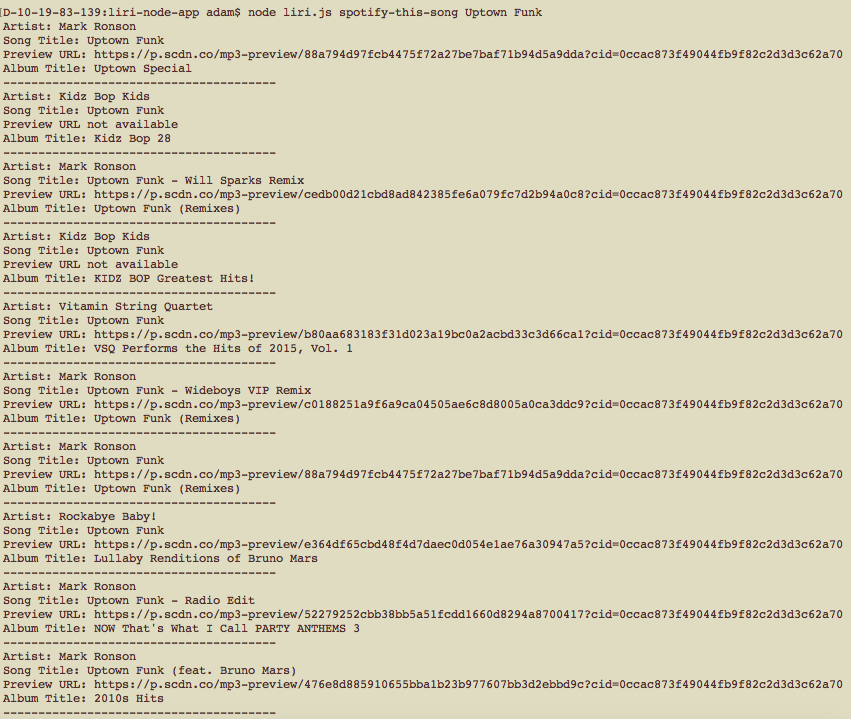
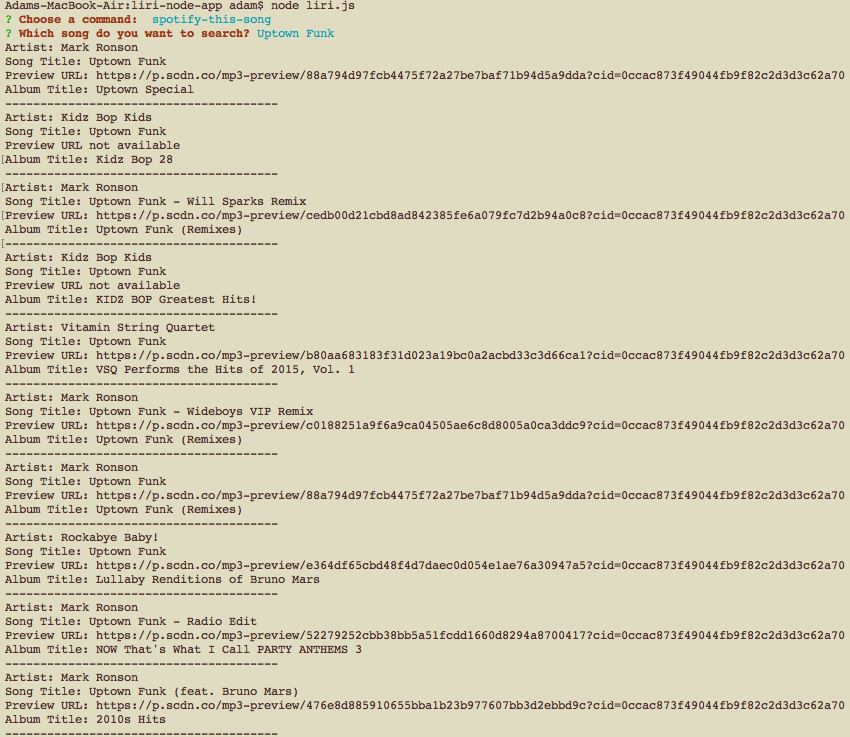
added spotify-this-song to readme

Changed region(s): [[0.0, 0.0, 1.0, 1.0]]

diff --git a/README.md b/README.md
@@ -15,6 +15,9 @@ LIRI stands for Language Interpretation and Recognition Interface. It is a comma
             ![movie-this input prompt screenshot](../master/images/movie-this-input-prompt.png)
  
         * If there is no movie name input, the app will default to searching the movie "Mr. Nobody"
+
+            ![move-this default screenshot](../master/images/movie-this-default.png)
+
         * It will return many details about the movie as shown below: 
         
             ![movie-this screenshot](../master/images/movie-this.png)
@@ -32,15 +35,19 @@ LIRI stands for Language Interpretation and Recognition Interface. It is a comma
 
             ![concert-this screenshot](../master/images/concert-this.png)
 
+    * Choose `spotify-this-song` to search the node-spotify-api 
+        * LIRI wil as "Which song do you want to search?":
 
+            ![spotify-this-song prompt screenshot](../master/images/spotify-this-input-prompt.png)
 
-        
-1. `node liri.js spotify-this-song <song title here>`
+        * If there is no song title input, the app will default to searching "The Sign":
 
-    * The app will utilize the node-spotify-api to search for the song specified
-    * If there is no song title input, the app will default to searching the song "The Sign"
-    * It will return the artist, song title, a preview link from Spotify, and the album that the song is from
-    ![spotify-this-song](../master/images/spotify-this-song.png)
+            ![spotify-this-song default screenshot](../master/images/spotify-this-default.png)
+
+        * The app will return data on 10 songs related to your search:
+
+            ![spotify-this-song screenshot](../master/images/spotify-this-song.png)
+
         
 1. `node liri.js do-what-it-says`
 
